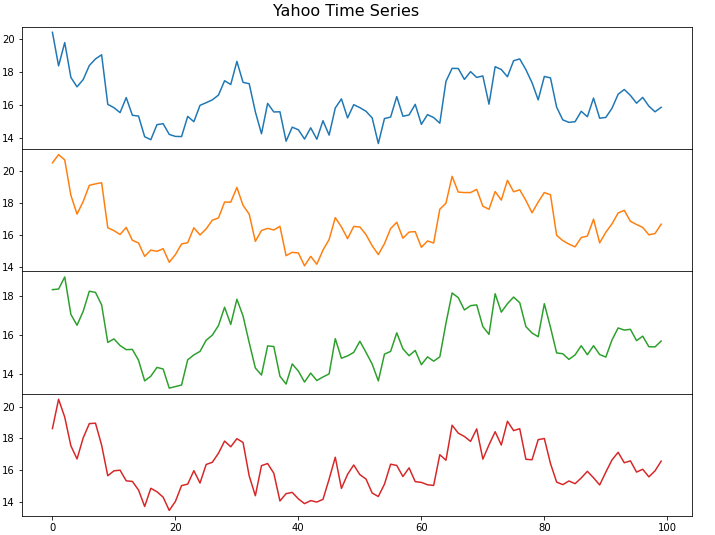
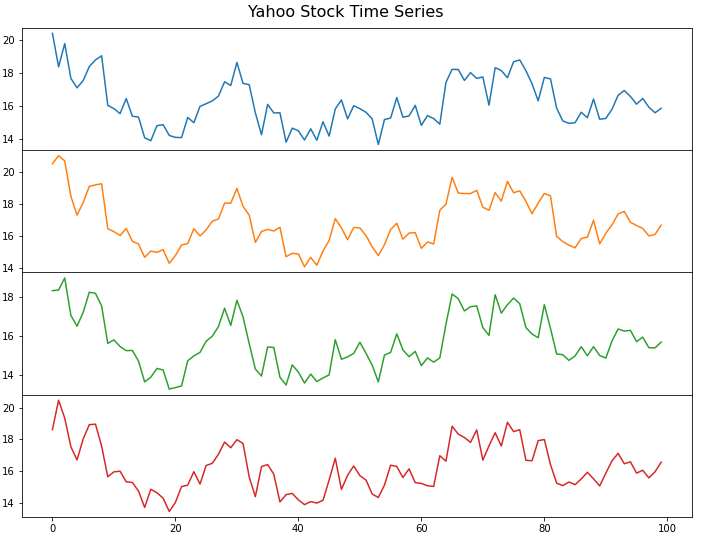
up

diff --git a/Code/dataset_figures.py b/Code/dataset_figures.py
@@ -47,10 +47,10 @@ plt.close()
 
 
 fig = plt.figure(figsize = (14,14))
-gs = fig.add_gridspec(6, 2, hspace=0.04)
+gs = fig.add_gridspec(4, 3, hspace=0.04)
 fig.suptitle("US Macroeconomic Time Series", fontsize=16, y=0.91)
 axs = gs.subplots(sharex=True, sharey=False)
-for i in range(0, X.shape[0], 2):
+for i in range(0, X.shape[0], 3):
     axs[int(i/2), 0].plot(X[i, :].T, c=colors[i])
     axs[int(i/2), 1].plot(X[i+1, :].T, c=colors[i+1])
     if i != X.shape[0]-2:
@@ -58,6 +58,18 @@ for i in range(0, X.shape[0], 2):
         axs[int(i/2), 1].axes.xaxis.set_visible(False)
 plt.savefig('./figures/macro2.png')
 plt.close()
+
+
+fig = plt.figure(figsize = (14,14))
+gs = fig.add_gridspec(4, 3, hspace=0, wspace=0)
+fig.suptitle("US Macroeconomic Time Series", fontsize=16, y=0.91)
+axs = gs.subplots(sharex=False, sharey=False)
+for i in range(4):
+    for j in range(3):
+        axs[i, j].plot(X[4*i+j, :].T, c=colors[4*i+j])
+        axs[i, j].axes.xaxis.set_visible(False)
+        axs[i, j].axes.yaxis.set_visible(False)
+plt.show()
 
 
 
@@ -169,7 +181,7 @@ plt.close()
 fig = plt.figure(figsize = (12,9))
 gs = fig.add_gridspec(4, hspace=0)
 axs = gs.subplots(sharex=True, sharey=False)
-fig.suptitle("Yahoo Time Series", fontsize=16, y=0.915)
+fig.suptitle("Yahoo Stock Time Series", fontsize=16, y=0.915)
 axs[0].plot(X[0, :].T, c = colors[0])
 axs[1].plot(X[1, :].T, c = colors[1])
 axs[2].plot(X[2, :].T, c = colors[2])

diff --git a/Code/stationarity_tests.py b/Code/stationarity_tests.py
@@ -83,20 +83,14 @@ def stationarity_tests(dataset_name, ds, rs, Ns):
             print("r:", r, "~", counter, "/", X_hat_vec.shape[0], "Series are Stationary")
 
 #                             Index  Var x Time
-datasets = ['macro', #__________0     12 x 203
-            'elnino', #_________1     12 x 61
-            'copper', #_________2      5 x 25    # DROP
-            'fertility', #______3    192 x 52    # DROP
-            'stackloss', #______4      4 x 21
-            'nightvisitors', #__5      8 x 56
-            'mortality', #______6      2 x 72
-            'ozone', #__________7      8 x 203
-            'inflation', #______8      8 x 123  
-            'nasdaq', #_________9     82 x 40560 # Pending
-            'traffic', #________10   228 x 40    # DROP
-            'yahoo', #__________11     5 x 2469  
-            'book', #___________12     3 x sum(Ns)
-            'book1'] #__________13     3 x sum(Ns)
+datasets = ['macro', #__________0     12 x 203     #
+            'elnino', #_________1     12 x 61      #
+            'stackloss', #______2      4 x 21      #
+            'nightvisitors', #__3      8 x 56      #
+            'ozone', #__________4      8 x 203     #
+            'nasdaq', #_________5     82 x 40560   # Pending
+            'yahoo', #__________6      5 x 2469    #
+            'book1'] #__________7      3 x sum(Ns) #
 
 Ns = [500, 1, 1]
 data_name = datasets[13]
